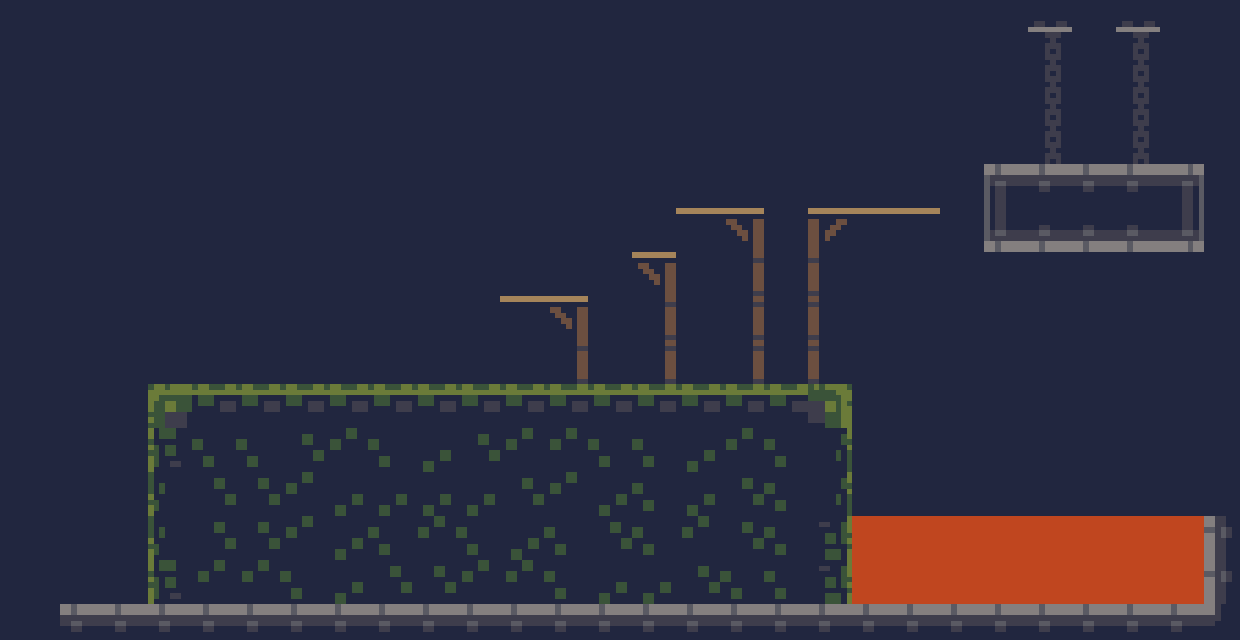
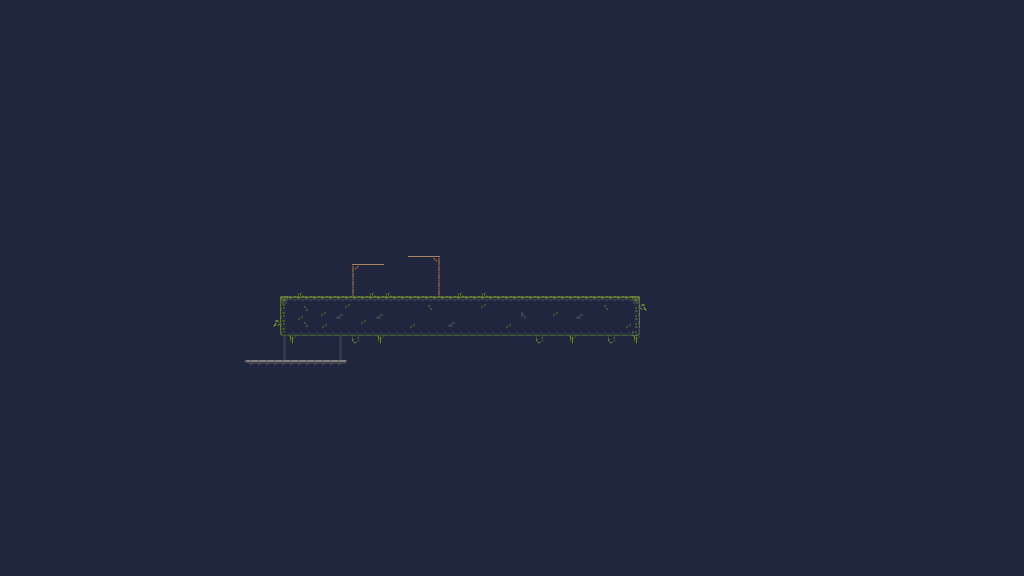
Test

diff --git a/levelOne.java b/levelOne.java
@@ -16,8 +16,10 @@ public class levelOne extends World
     public levelOne()
     {    
         // Create a new world with 600x400 cells with a cell size of 1x1 pixels.
-        super(1240, 640, 1); 
-        setBackground(new GreenfootImage("TiledMap.png"));
+        super(512*2, 288*2, 1); 
+        GreenfootImage bg = new GreenfootImage("TiledMap.png");
+        //bg.scale(512*2, 288*2);
+        setBackground(bg);
         Player player = new Player();
         addObject(player, 100, 100);
     }
